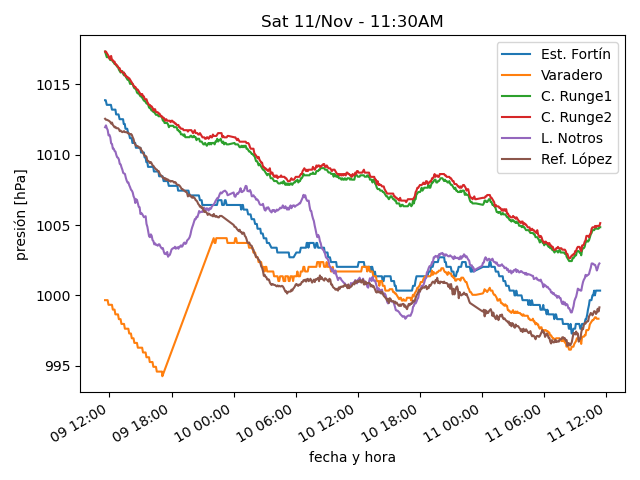
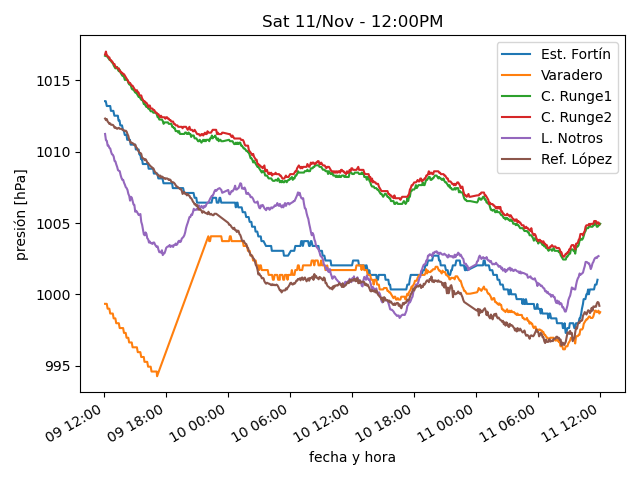
actualiza datos

diff --git a/estaciones/estacion6.html b/estaciones/estacion6.html
@@ -18,37 +18,37 @@
     </tr>
     <tr>
      <td class="stats_data">
-      11:20AM
+      11:55AM
      </td>
     </tr>
     <tr>
      <td class="stats_data">
-      -2.7⁰C
+      -2.9⁰C
      </td>
     </tr>
     <tr>
      <td class="stats_data">
-      -3.3⁰C
+      -3.6⁰C
      </td>
     </tr>
     <tr>
      <td class="stats_data">
-      96.0%
+      95.0%
      </td>
     </tr>
     <tr>
      <td class="stats_data">
-      1000.54hPa
+      1000.58hPa
      </td>
     </tr>
     <tr>
      <td class="stats_data">
-      4.8/11.3 km/hr NE
+      9.7/20.9 km/hr NE
      </td>
     </tr>
     <tr>
      <td class="stats_data">
-      0.0 / 0.0 mm
+      0.25 / 0.25 mm
      </td>
     </tr>
     <tr>
@@ -58,7 +58,7 @@
     </tr>
     <tr>
      <td class="stats_data">
-      898.0 W/m²
+      904.0 W/m²
      </td>
     </tr>
    </tbody>

diff --git a/estaciones/estacion2.html b/estaciones/estacion2.html
@@ -18,32 +18,32 @@
     </tr>
     <tr>
      <td class="stats_data">
-      11:14AM
+      11:59AM
      </td>
     </tr>
     <tr>
      <td class="stats_data">
-      4.7⁰C
+      4.6⁰C
      </td>
     </tr>
     <tr>
      <td class="stats_data">
-      3.4⁰C
+      3.1⁰C
      </td>
     </tr>
     <tr>
      <td class="stats_data">
-      90.9%
+      90.2%
      </td>
     </tr>
     <tr>
      <td class="stats_data">
-      1007.82hPa
+      1008.23hPa
      </td>
     </tr>
     <tr>
      <td class="stats_data">
-      26.8/32.4 km/hr NW
+      27.2/31.6 km/hr NW
      </td>
     </tr>
     <tr>
@@ -53,12 +53,12 @@
     </tr>
     <tr>
      <td class="stats_data">
-      1.0
+      4.0
      </td>
     </tr>
     <tr>
      <td class="stats_data">
-      147.4 W/m²
+      419.9 W/m²
      </td>
     </tr>
    </tbody>

diff --git a/estaciones/estacion3.html b/estaciones/estacion3.html
@@ -18,7 +18,7 @@
     </tr>
     <tr>
      <td class="stats_data">
-      11:24AM
+      11:59AM
      </td>
     </tr>
     <tr>
@@ -28,22 +28,22 @@
     </tr>
     <tr>
      <td class="stats_data">
-      1.8⁰C
+      2.4⁰C
      </td>
     </tr>
     <tr>
      <td class="stats_data">
-      92.3%
+      96.0%
      </td>
     </tr>
     <tr>
      <td class="stats_data">
-      993.13hPa
+      993.23hPa
      </td>
     </tr>
     <tr>
      <td class="stats_data">
-      10.5/16.6 km/hr WNW
+      12.9/18.6 km/hr NW
      </td>
     </tr>
     <tr>
@@ -53,12 +53,12 @@
     </tr>
     <tr>
      <td class="stats_data">
-      1.0
+      2.0
      </td>
     </tr>
     <tr>
      <td class="stats_data">
-      138.7 W/m²
+      215.6 W/m²
      </td>
     </tr>
    </tbody>

diff --git a/estaciones/estacion4.html b/estaciones/estacion4.html
@@ -18,32 +18,32 @@
     </tr>
     <tr>
      <td class="stats_data">
-      11:24AM
+      11:54AM
      </td>
     </tr>
     <tr>
      <td class="stats_data">
-      3.3⁰C
+      3.2⁰C
      </td>
     </tr>
     <tr>
      <td class="stats_data">
-      1.7⁰C
+      2.0⁰C
      </td>
     </tr>
     <tr>
      <td class="stats_data">
-      89.7%
+      92.4%
      </td>
     </tr>
     <tr>
      <td class="stats_data">
-      1002.13hPa
+      1001.93hPa
      </td>
     </tr>
     <tr>
      <td class="stats_data">
-      4.4/7.0 km/hr SW
+      5.5/8.9 km/hr SW
      </td>
     </tr>
     <tr>
@@ -58,7 +58,7 @@
     </tr>
     <tr>
      <td class="stats_data">
-      117.5 W/m²
+      204.0 W/m²
      </td>
     </tr>
    </tbody>

diff --git a/estaciones/estacion1.html b/estaciones/estacion1.html
@@ -18,12 +18,12 @@
     </tr>
     <tr>
      <td class="stats_data">
-      11:23AM
+      11:44AM
      </td>
     </tr>
     <tr>
      <td class="stats_data">
-      4.4⁰C
+      4.7⁰C
      </td>
     </tr>
     <tr>
@@ -33,17 +33,17 @@
     </tr>
     <tr>
      <td class="stats_data">
-      79.0%
+      77.7%
      </td>
     </tr>
     <tr>
      <td class="stats_data">
-      1000.34hPa
+      1001.02hPa
      </td>
     </tr>
     <tr>
      <td class="stats_data">
-      18.5/24.9 km/hr WNW
+      15.1/27.4 km/hr WNW
      </td>
     </tr>
     <tr>
@@ -58,7 +58,7 @@
     </tr>
     <tr>
      <td class="stats_data">
-      221.0 W/m²
+      216.0 W/m²
      </td>
     </tr>
    </tbody>

diff --git a/estaciones/estacion5.html b/estaciones/estacion5.html
@@ -18,17 +18,17 @@
     </tr>
     <tr>
      <td class="stats_data">
-      11:20AM
+      11:50AM
      </td>
     </tr>
     <tr>
      <td class="stats_data">
-      3.2⁰C
+      3.4⁰C
      </td>
     </tr>
     <tr>
      <td class="stats_data">
-      1.8⁰C
+      2.0⁰C
      </td>
     </tr>
     <tr>
@@ -38,12 +38,12 @@
     </tr>
     <tr>
      <td class="stats_data">
-      1004.84hPa
+      1005.25hPa
      </td>
     </tr>
     <tr>
      <td class="stats_data">
-      0.0/0.0 km/hr N
+      0.0/2.6 km/hr N
      </td>
     </tr>
     <tr>
